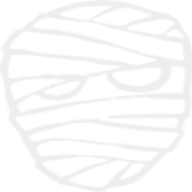
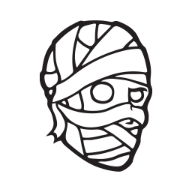
Add new images

Changed region(s): [[0.1875, 0.0938, 0.8125, 0.9062]]

diff --git a/web/src/partials/FAQHero.js b/web/src/partials/FAQHero.js
@@ -6,7 +6,7 @@ function FAQHero() {
       className="mt-20"
       style={{
         height: 660,
-        background: `top center url(${require('../images/press-conference-concept-II.png')}) no-repeat`,
+        background: `top center url(${require('../images/noma-press-final.jpg')}) no-repeat`,
       }}
     >
       <div className="max-w-5xl mx-auto px-4">
@@ -15,9 +15,9 @@ function FAQHero() {
           FAQ
         </h1>
         <div className="pl-20 text-xl text-white text-center">
-          If you are interested in something else, please join our&nbsp;
-          <a className="underline text-yellow-300" href="https://discord.gg/qJDaaYBAkF">
-            Discord
+          If you have any questions, please follow and DM us on &nbsp;
+          <a className="underline text-yellow-300" href="https://twitter.com/nomaclub">
+            Twitter
           </a>
           .
         </div>

diff --git a/web/src/partials/GetToKnowUs.js b/web/src/partials/GetToKnowUs.js
@@ -18,7 +18,13 @@ function GetToKnowUs() {
               <br />
               We are on the mission to create a community-owned studio that allows players
               to become investors and decision-makers in the game they want to play.
+              <br />
+              <br />
+              You can use the NoMA project and our know-how as the blueprint for starting your studio.
             </div>
+          </div>
+          <div className="col-span-5 mb-8 md:mb-0 text-right">
+            <img src={require('../images/noma-propaganda-poster.jpg')} className="sm:mx-auto" alt="Propaganda poster" />
           </div>
         </div>
       </div>

diff --git a/web/src/partials/Team.js b/web/src/partials/Team.js
@@ -37,7 +37,7 @@ function Team() {
           </p>
         </div>
         <div className="col-span-3 text-left">
-          <img className="mb-4 sm:mx-auto md:mx-0" src={require('../images/NoMA-Mummy.svg').default} style={{ width: 100, height: 265, margin: '0 auto' }} alt="Mummy Boy - Guide" />
+          <img className="mb-4 sm:mx-auto md:mx-0" src={require('../images/team/mummy-guide.png')} alt="Mummy Boy - Guide" />
           <h3 className="h3 sm:text-xl sm:text-center md:text-left mb-2 font-red-hat-display font-extrabold" data-aos="fade-down">
             Mummy Boy / Guide
           </h3>
